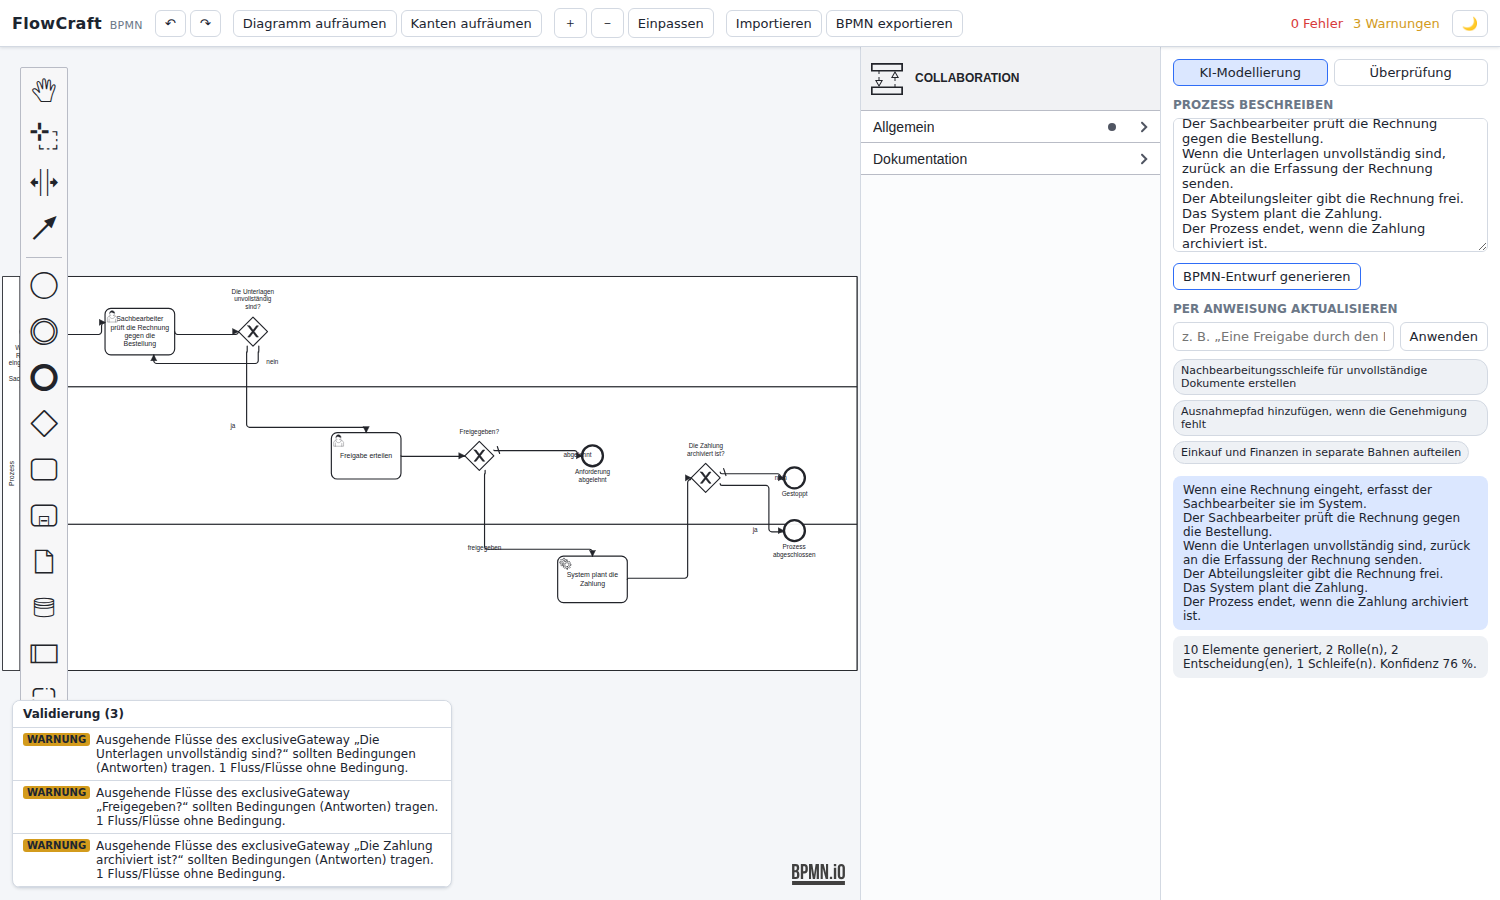
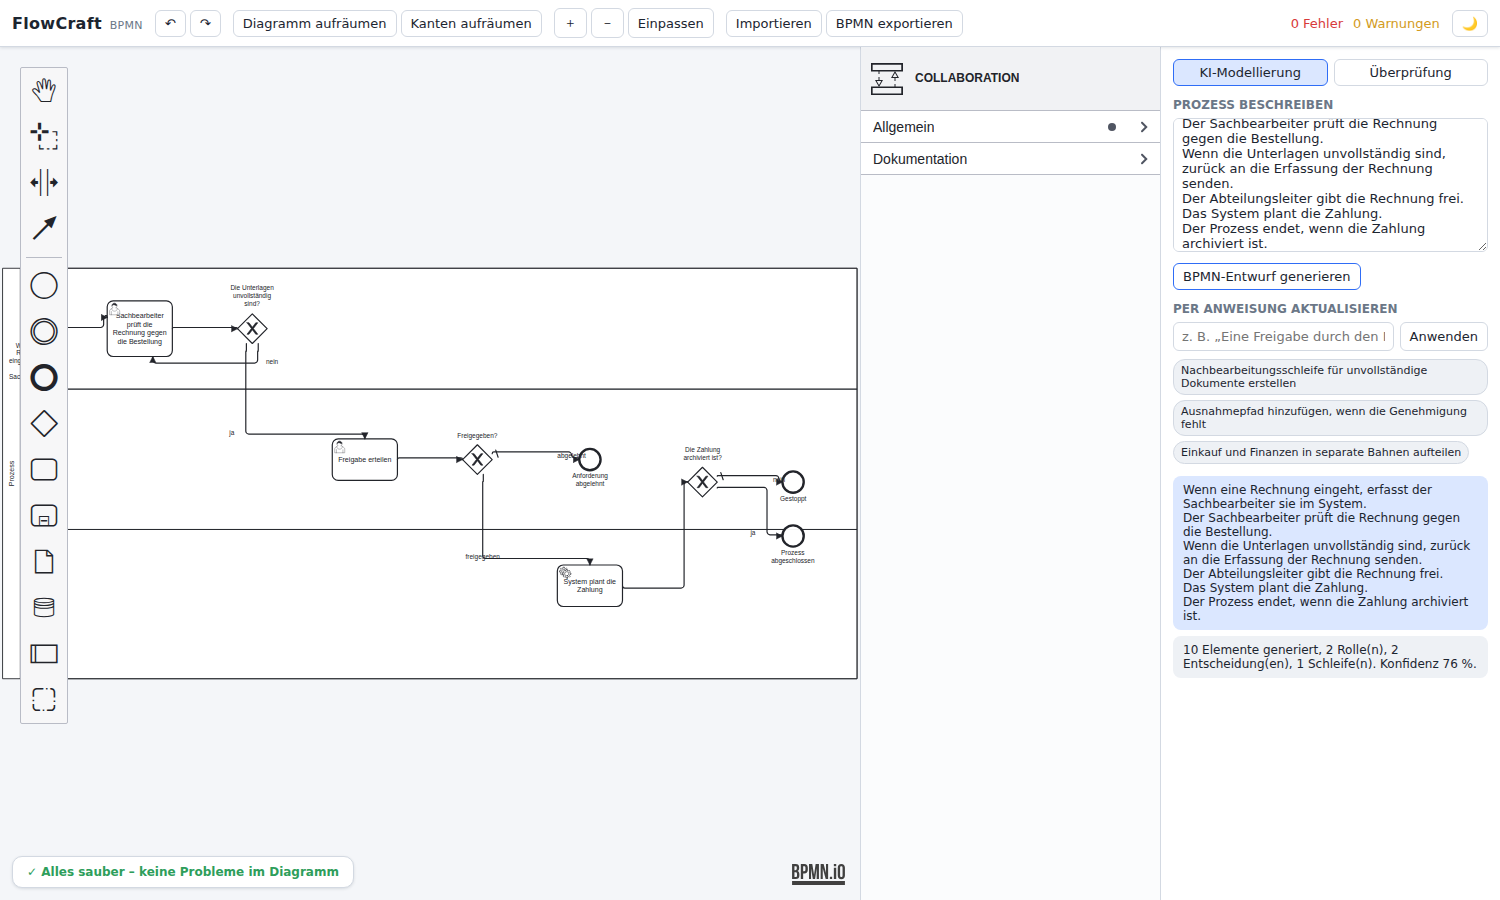
Clear, actionable validation + auto-sized task boxes (AI-modeling polish)
Validation
- Every issue now has a plain-language message + a concrete "→ fix" hint;
  panel redesigned (collapsible, severity badges, counts, hint line).
- Smarter gateway rule: a path counts as answered if it has a LABEL, a
  condition or is the default — labelled "ja"/"nein" branches no longer raise
  confusing "missing condition" warnings. AI-generated diagrams now validate
  clean instead of showing noise the user can't interpret.

Optics
- fitLabelSizes(): task-like activities auto-grow to fit their (wrapped) label
  instead of clipping it — fixes squished labels on AI-generated diagrams.
  Run in autoLayout before placement so spacing accounts for the real sizes.

42 tests pass; verified in-browser (0 warnings, labels fit).

Claude-Session: https://claude.ai/code/session_014hKtQHBPVBhXtcd1pk8v9w

Changed region(s): [[0.0, 0.7778, 0.3067, 0.9956], [0.0613, 0.4667, 0.552, 0.6844], [0.0613, 0.28, 0.552, 0.4356]]

diff --git a/src/core/validation/validator.ts b/src/core/validation/validator.ts
@@ -5,7 +5,10 @@ export type Severity = "error" | "warning" | "info";
 export interface ValidationIssue {
   rule: string;
   severity: Severity;
+  /** plain-language description of what is wrong. */
   message: string;
+  /** concrete, actionable fix in plain language. */
+  hint?: string;
   elementId?: string;
 }
 
@@ -59,14 +62,15 @@ function validateFlowScopes(
     const s = model.nodes[e.source];
     const t = model.nodes[e.target];
     if (!s || !t) {
-      add({ rule: "flow.endpoints", severity: "error", message: `Sequenzfluss ${e.id} hat einen fehlenden Endpunkt.`, elementId: e.id });
+      add({ rule: "flow.endpoints", severity: "error", message: `Ein Sequenzfluss hängt in der Luft (Start- oder Endpunkt fehlt).`, hint: "Verbinde den Pfeil mit zwei vorhandenen Elementen oder lösche ihn.", elementId: e.id });
       continue;
     }
     if (processOf[s.id] !== processOf[t.id]) {
       add({
         rule: "flow.same-pool",
         severity: "error",
-        message: `Sequenzfluss „${e.name ?? e.id}“ verbindet Elemente in verschiedenen Pools. Verwenden Sie zwischen Pools einen Nachrichtenfluss.`,
+        message: `Der Pfeil „${e.name ?? "(ohne Name)"}“ verbindet zwei verschiedene Pools mit einem Sequenzfluss.`,
+        hint: "Innerhalb eines Pools: Sequenzfluss. Zwischen zwei Pools: Nachrichtenfluss (gestrichelt) verwenden.",
         elementId: e.id,
       });
     }
@@ -86,7 +90,8 @@ function validateMessageFlows(
       add({
         rule: "messageflow.cross-pool",
         severity: "error",
-        message: `Nachrichtenfluss „${e.name ?? e.id}“ muss zwei verschiedene Pools verbinden.`,
+        message: `Der Nachrichtenfluss „${e.name ?? "(ohne Name)"}“ bleibt innerhalb eines Pools.`,
+        hint: "Nachrichtenflüsse modellieren Kommunikation ZWISCHEN Pools. Innerhalb eines Pools stattdessen einen Sequenzfluss verwenden.",
         elementId: e.id,
       });
     }
@@ -97,7 +102,7 @@ function validateLanes(model: BpmnModel, add: (i: ValidationIssue) => void): voi
   for (const lane of Object.values(model.lanes)) {
     const proc = model.processes[lane.parent];
     if (!proc) {
-      add({ rule: "lane.in-pool", severity: "error", message: `Bahn „${lane.name ?? lane.id}“ ist in keinem Prozess/Pool enthalten.`, elementId: lane.id });
+      add({ rule: "lane.in-pool", severity: "error", message: `Die Bahn „${lane.name ?? lane.id}“ liegt in keinem Pool.`, hint: "Bahnen (Rollen) gehören immer in einen Pool. Lege einen Pool an und ordne die Bahn dort ein.", elementId: lane.id });
     }
   }
 }
@@ -108,18 +113,18 @@ function validateEvents(model: BpmnModel, add: (i: ValidationIssue) => void): vo
     const out = adj.outgoing[n.id] ?? [];
     const inc = adj.incoming[n.id] ?? [];
     if (n.type === "startEvent") {
-      if (inc.length) add({ rule: "event.start-no-incoming", severity: "error", message: `Startereignis „${label(n)}“ darf keine eingehenden Sequenzflüsse haben.`, elementId: n.id });
-      if (!out.length) add({ rule: "event.start-outgoing", severity: "warning", message: `Startereignis „${label(n)}“ hat keinen ausgehenden Fluss.`, elementId: n.id });
+      if (inc.length) add({ rule: "event.start-no-incoming", severity: "error", message: `Auf das Startereignis „${label(n)}“ zeigt ein Pfeil.`, hint: "Ein Start beginnt den Prozess – es darf nichts hineinfließen. Eingehenden Pfeil entfernen.", elementId: n.id });
+      if (!out.length) add({ rule: "event.start-outgoing", severity: "warning", message: `Vom Start „${label(n)}“ geht kein Pfeil aus.`, hint: "Verbinde den Start mit dem ersten Schritt des Prozesses.", elementId: n.id });
     }
     if (n.type === "endEvent") {
-      if (out.length) add({ rule: "event.end-no-outgoing", severity: "error", message: `Endereignis „${label(n)}“ darf keine ausgehenden Sequenzflüsse haben.`, elementId: n.id });
-      if (!inc.length) add({ rule: "event.end-incoming", severity: "warning", message: `Endereignis „${label(n)}“ hat keinen eingehenden Fluss.`, elementId: n.id });
+      if (out.length) add({ rule: "event.end-no-outgoing", severity: "error", message: `Vom Endereignis „${label(n)}“ geht ein Pfeil aus.`, hint: "Ein Ende schließt den Prozess ab – von dort darf nichts mehr weitergehen. Ausgehenden Pfeil entfernen.", elementId: n.id });
+      if (!inc.length) add({ rule: "event.end-incoming", severity: "warning", message: `Auf das Ende „${label(n)}“ zeigt kein Pfeil.`, hint: "Verbinde den letzten Schritt mit diesem Endereignis.", elementId: n.id });
     }
     if (n.type === "boundaryEvent") {
       if (!n.attachedToRef || !model.nodes[n.attachedToRef]) {
-        add({ rule: "event.boundary-host", severity: "error", message: `Rand-Ereignis „${label(n)}“ muss an eine Aktivität angeheftet sein.`, elementId: n.id });
+        add({ rule: "event.boundary-host", severity: "error", message: `Das Rand-Ereignis „${label(n)}“ klebt an keiner Aufgabe.`, hint: "Ziehe das Ereignis auf den Rand einer Aktivität (z. B. für einen Timer oder eine Fehlerbehandlung).", elementId: n.id });
       } else if (!isActivity(model.nodes[n.attachedToRef].type)) {
-        add({ rule: "event.boundary-host", severity: "error", message: `Rand-Ereignis „${label(n)}“ muss an eine Aktivität angeheftet sein, nicht an ${model.nodes[n.attachedToRef].type}.`, elementId: n.id });
+        add({ rule: "event.boundary-host", severity: "error", message: `Das Rand-Ereignis „${label(n)}“ hängt an einem Element, das keine Aufgabe ist.`, hint: "Rand-Ereignisse gehören an Aktivitäten (Aufgaben/Teilprozesse), nicht an Gateways oder Ereignisse.", elementId: n.id });
       }
     }
   }
@@ -132,28 +137,61 @@ function validateGateways(model: BpmnModel, add: (i: ValidationIssue) => void): 
     const out = adj.outgoing[n.id] ?? [];
     const inc = adj.incoming[n.id] ?? [];
     if (out.length <= 1 && inc.length <= 1) {
-      add({ rule: "gateway.degenerate", severity: "warning", message: `Gateway „${label(n)}“ verzweigt und führt nichts zusammen (1 ein/1 aus). Entfernen erwägen.`, elementId: n.id });
+      add({
+        rule: "gateway.degenerate",
+        severity: "warning",
+        message: `Das Gateway „${label(n)}“ teilt nichts auf und führt nichts zusammen.`,
+        hint: "Ein Gateway mit nur einem Eingang und einem Ausgang ist überflüssig – entfernen und die beiden Flüsse direkt verbinden.",
+        elementId: n.id,
+      });
     }
     if ((n.type === "exclusiveGateway" || n.type === "inclusiveGateway") && out.length > 1) {
-      const withoutCondition = out.filter((e) => !e.condition && !e.isDefault);
+      // A path counts as "answered" if it has a label OR a condition OR is the
+      // default — an unlabelled, unconditioned path is the real problem.
+      const unlabelled = out.filter((e) => !e.condition && !e.isDefault && !(e.name && e.name.trim()));
       const defaults = out.filter((e) => e.isDefault);
-      if (withoutCondition.length) {
-        add({ rule: "gateway.conditions", severity: "warning", message: `Ausgehende Flüsse des ${n.type} „${label(n)}“ sollten Bedingungen (Antworten) tragen. ${withoutCondition.length} Fluss/Flüsse ohne Bedingung.`, elementId: n.id });
+      if (unlabelled.length) {
+        add({
+          rule: "gateway.conditions",
+          severity: "warning",
+          message: `Beim Gateway „${label(n)}“ ${unlabelled.length === 1 ? "ist ein Ausgang" : `sind ${unlabelled.length} Ausgänge`} nicht beschriftet.`,
+          hint: "Beschrifte jeden Ausgang mit seiner Antwort (z. B. „ja“ / „nein“), damit klar ist, wann welcher Weg genommen wird.",
+          elementId: n.id,
+        });
       }
       if (defaults.length > 1) {
-        add({ rule: "gateway.default", severity: "error", message: `Gateway „${label(n)}“ hat mehr als einen Standardfluss.`, elementId: n.id });
+        add({
+          rule: "gateway.default",
+          severity: "error",
+          message: `Das Gateway „${label(n)}“ hat mehrere Standard-Ausgänge.`,
+          hint: "Es darf nur einen Standardfluss geben. Entferne die Standard-Markierung bei den übrigen Ausgängen.",
+          elementId: n.id,
+        });
       }
     }
     if (n.type === "parallelGateway") {
       for (const e of out) {
-        if (e.condition) add({ rule: "gateway.parallel-condition", severity: "error", message: `Paralleles Gateway „${label(n)}“ darf keine bedingten ausgehenden Flüsse haben.`, elementId: e.id });
+        if (e.condition)
+          add({
+            rule: "gateway.parallel-condition",
+            severity: "error",
+            message: `Ein paralleles Gateway („${label(n)}“) hat einen Ausgang mit Bedingung.`,
+            hint: "Parallele Gateways führen IMMER alle Wege gleichzeitig aus – Bedingungen sind hier nicht erlaubt. Nutze ein exklusives Gateway, wenn du entscheiden willst.",
+            elementId: e.id,
+          });
       }
     }
     if (n.type === "eventBasedGateway") {
       for (const e of out) {
         const tgt = model.nodes[e.target];
         if (tgt && tgt.type !== "intermediateCatchEvent" && !tgt.type.endsWith("Task")) {
-          add({ rule: "gateway.event-based-targets", severity: "warning", message: `Auf ein ereignisbasiertes Gateway „${label(n)}“ sollten fangende Ereignisse oder Empfangsaufgaben folgen.`, elementId: n.id });
+          add({
+            rule: "gateway.event-based-targets",
+            severity: "warning",
+            message: `Auf das ereignisbasierte Gateway „${label(n)}“ folgt etwas anderes als ein Ereignis.`,
+            hint: "Nach einem ereignisbasierten Gateway müssen fangende Ereignisse oder Empfangsaufgaben kommen (das Gateway wartet auf das erste eintreffende Ereignis).",
+            elementId: n.id,
+          });
         }
       }
     }
@@ -167,7 +205,7 @@ function validateConnectivity(model: BpmnModel, add: (i: ValidationIssue) => voi
     const out = adj.outgoing[n.id] ?? [];
     const inc = adj.incoming[n.id] ?? [];
     if (out.length === 0 && inc.length === 0) {
-      add({ rule: "connectivity.isolated", severity: "warning", message: `Element „${label(n)}“ ist nicht mit dem Ablauf verbunden.`, elementId: n.id });
+      add({ rule: "connectivity.isolated", severity: "warning", message: `„${label(n)}“ ist mit nichts verbunden.`, hint: "Verbinde das Element mit dem Ablauf oder entferne es.", elementId: n.id });
     }
   }
 }
@@ -176,13 +214,13 @@ function validateReadability(model: BpmnModel, add: (i: ValidationIssue) => void
   for (const n of Object.values(model.nodes)) {
     if (isActivity(n.type)) {
       if (!n.name || !n.name.trim()) {
-        add({ rule: "readability.task-name", severity: "warning", message: `Aktivität ${n.id} hat keinen Namen. Verwenden Sie Objekt + Verb (z. B. „Rechnung freigeben“).`, elementId: n.id });
+        add({ rule: "readability.task-name", severity: "warning", message: `Eine Aufgabe hat keinen Namen.`, hint: "Benenne sie als Tätigkeit (Verb + Objekt), z. B. „Rechnung freigeben“.", elementId: n.id });
       } else if (!looksLikeObjectVerb(n.name)) {
-        add({ rule: "readability.object-verb", severity: "info", message: `Aufgabe „${n.name}“ folgt evtl. nicht der Objekt-+-Verb-Benennung.`, elementId: n.id });
+        add({ rule: "readability.object-verb", severity: "info", message: `„${n.name}“ liest sich evtl. nicht wie eine Tätigkeit.`, hint: "Tipp: Verb + Objekt verwenden, z. B. „Antrag prüfen“ statt „Antrag“.", elementId: n.id });
       }
     }
     if (n.type === "exclusiveGateway" && n.name && !n.name.trim().endsWith("?")) {
-      add({ rule: "readability.gateway-question", severity: "info", message: `Exklusives Gateway „${n.name}“ sollte üblicherweise als Frage formuliert werden.`, elementId: n.id });
+      add({ rule: "readability.gateway-question", severity: "info", message: `Das Gateway „${n.name}“ ist nicht als Frage formuliert.`, hint: "Entscheidungen liest man am besten als Frage, z. B. „Betrag > 1000 €?“.", elementId: n.id });
     }
   }
 }

diff --git a/src/ui/components/ValidationPanel.tsx b/src/ui/components/ValidationPanel.tsx
@@ -1,40 +1,59 @@
+import { useState } from "react";
 import { useEditor } from "@state/store";
+import { summarize } from "@core/index";
+
+const SEV_LABEL: Record<string, string> = { error: "Fehler", warning: "Hinweis", info: "Tipp" };
+const SEV_ICON: Record<string, string> = { error: "✕", warning: "!", info: "i" };
 
 export function ValidationPanel() {
   const issues = useEditor((s) => s.issues);
   const store = useEditor;
+  const [open, setOpen] = useState(true);
+  const counts = summarize(issues);
 
   const locate = (elementId?: string) => {
     if (!elementId) return;
     const modeler = store.getState().modeler;
     if (!modeler) return;
-    const registry = modeler.get<any>("elementRegistry");
-    const selection = modeler.get<any>("selection");
-    const canvas = modeler.get<any>("canvas");
-    const el = registry.get(elementId);
-    if (el) {
-      selection.select(el);
-      try {
-        canvas.scrollToElement(el);
-      } catch {
-        /* older bpmn-js */
-      }
+    const el = modeler.get<any>("elementRegistry").get(elementId);
+    if (!el) return;
+    modeler.get<any>("selection").select(el);
+    try {
+      modeler.get<any>("canvas").scrollToElement(el);
+    } catch {
+      /* older bpmn-js */
     }
   };
 
-  if (!issues.length) return <div className="validation ok">✓ Keine Validierungsprobleme</div>;
-  const SEV: Record<string, string> = { error: "Fehler", warning: "Warnung", info: "Info" };
+  if (!issues.length) {
+    return <div className="validation ok">✓ Alles sauber – keine Probleme im Diagramm</div>;
+  }
+
   return (
-    <div className="validation">
-      <div className="validation-head">Validierung ({issues.length})</div>
-      <ul>
-        {issues.map((it, i) => (
-          <li key={i} className={it.severity} onClick={() => locate(it.elementId)} title={it.rule}>
-            <span className="sev">{SEV[it.severity] ?? it.severity}</span>
-            {it.message}
-          </li>
-        ))}
-      </ul>
+    <div className={`validation ${open ? "open" : "collapsed"}`}>
+      <div className="validation-head" onClick={() => setOpen((o) => !o)}>
+        <span>{open ? "▾" : "▸"} Diagramm-Prüfung</span>
+        <span className="vh-counts">
+          {counts.errors > 0 && <span className="b err">{counts.errors} Fehler</span>}
+          {counts.warnings > 0 && <span className="b warn">{counts.warnings} Hinweise</span>}
+          {counts.infos > 0 && <span className="b info">{counts.infos} Tipps</span>}
+        </span>
+      </div>
+      {open && (
+        <ul>
+          {issues.map((it, i) => (
+            <li key={i} className={it.severity} onClick={() => locate(it.elementId)}>
+              <span className={`badge ${it.severity}`}>{SEV_ICON[it.severity]}</span>
+              <div className="vi-body">
+                <div className="vi-msg">
+                  <span className="vi-sev">{SEV_LABEL[it.severity] ?? it.severity}:</span> {it.message}
+                </div>
+                {it.hint && <div className="vi-hint">→ {it.hint}</div>}
+              </div>
+            </li>
+          ))}
+        </ul>
+      )}
     </div>
   );
 }

diff --git a/src/ui/styles/app.css b/src/ui/styles/app.css
@@ -83,16 +83,25 @@ textarea { resize: vertical; }
 .bjs-properties:empty { display: none; }
 
 /* Validation overlay */
-.validation { position: absolute; left: 12px; bottom: 12px; max-height: 36%; width: 440px; max-width: 70%; overflow: auto; background: var(--surface); border: 1px solid var(--border); border-radius: 8px; box-shadow: var(--shadow); font-size: 12px; z-index: 4; }
-.validation.ok { padding: 6px 12px; color: #2e9e5b; width: auto; }
-.validation-head { padding: 6px 10px; font-weight: 600; border-bottom: 1px solid var(--border); position: sticky; top: 0; background: var(--surface); }
+.validation { position: absolute; left: 12px; bottom: 12px; max-height: 42%; width: 460px; max-width: 70%; overflow: auto; background: var(--surface); border: 1px solid var(--border); border-radius: 10px; box-shadow: var(--shadow); font-size: 12px; z-index: 4; }
+.validation.ok { padding: 8px 14px; color: #2e9e5b; width: auto; font-weight: 600; }
+.validation-head { padding: 8px 12px; font-weight: 700; border-bottom: 1px solid var(--border); position: sticky; top: 0; background: var(--surface); display: flex; justify-content: space-between; align-items: center; cursor: pointer; gap: 10px; }
+.vh-counts { display: flex; gap: 6px; font-size: 11px; font-weight: 600; }
+.vh-counts .b { padding: 1px 7px; border-radius: 10px; }
+.vh-counts .b.err { background: var(--error); color: #fff; }
+.vh-counts .b.warn { background: var(--warn); color: #1c2530; }
+.vh-counts .b.info { background: var(--surface-2); color: var(--muted); }
 .validation ul { list-style: none; margin: 0; padding: 0; }
-.validation li { padding: 5px 10px; border-bottom: 1px solid var(--border); cursor: pointer; display: flex; gap: 6px; }
+.validation li { padding: 8px 12px; border-bottom: 1px solid var(--border); cursor: pointer; display: flex; gap: 9px; align-items: flex-start; }
 .validation li:hover { background: var(--surface-2); }
-.validation li .sev { font-size: 10px; text-transform: uppercase; font-weight: 700; padding: 1px 4px; border-radius: 3px; height: fit-content; }
-.validation li.error .sev { background: var(--error); color: #fff; }
-.validation li.warning .sev { background: var(--warn); color: #1c2530; }
-.validation li.info .sev { background: var(--surface-2); color: var(--muted); }
+.validation li .badge { flex: none; width: 18px; height: 18px; border-radius: 50%; display: flex; align-items: center; justify-content: center; font-size: 11px; font-weight: 700; color: #fff; margin-top: 1px; }
+.validation li .badge.error { background: var(--error); }
+.validation li .badge.warning { background: var(--warn); color: #1c2530; }
+.validation li .badge.info { background: #6b7787; }
+.vi-body { min-width: 0; }
+.vi-msg { line-height: 1.35; }
+.vi-sev { font-weight: 700; }
+.vi-hint { margin-top: 3px; color: var(--muted); line-height: 1.3; }
 
 /* AI side panel */
 .side { width: 340px; border-left: 1px solid var(--border); background: var(--surface); display: flex; flex-direction: column; overflow: hidden; }

diff --git a/src/core/layout/layered.ts b/src/core/layout/layered.ts
@@ -234,6 +234,28 @@ function assignCoordinates(
   }
 }
 
+/**
+ * Size task-like activities so their label fits inside the box (bpmn-js wraps
+ * text but clips overflow). Prevents the squished/cut-off labels that make
+ * AI-generated diagrams look unfinished. Events/gateways keep fixed sizes
+ * (their labels render externally).
+ */
+export function fitLabelSizes(model: BpmnModel, scope: string): void {
+  for (const n of Object.values(model.nodes)) {
+    if (n.parent !== scope) continue;
+    const taskLike = n.type === "task" || n.type.endsWith("Task") || n.type === "callActivity";
+    if (!taskLike || !n.name) continue;
+    const charsPerLine = 16; // ~width 100 at 12px
+    const longestWord = Math.max(...n.name.split(/\s+/).map((w) => w.length), 1);
+    const width = Math.max(110, Math.min(170, longestWord * 7.2));
+    const cpl = Math.max(charsPerLine, Math.floor((width - 16) / 6.6));
+    const lines = Math.max(1, Math.ceil(n.name.length / cpl));
+    const height = Math.max(70, Math.min(150, lines * 16 + 30));
+    n.bounds.width = Math.round(width);
+    n.bounds.height = Math.round(height);
+  }
+}
+
 function median(xs: number[]): number {
   if (!xs.length) return 0;
   const s = [...xs].sort((a, b) => a - b);

diff --git a/src/core/layout/index.ts b/src/core/layout/index.ts
@@ -1,6 +1,6 @@
 import { BpmnModel } from "../model";
 import { routeMessageFlows, routeScope, RouteOptions } from "../routing/router";
-import { LayoutOptions, LayoutResult, contentBounds, layoutScope } from "./layered";
+import { LayoutOptions, LayoutResult, contentBounds, fitLabelSizes, layoutScope } from "./layered";
 import { placeLabels } from "./labels";
 
 export * from "./layered";
@@ -21,6 +21,7 @@ export function autoLayout(
   scope = model.rootProcessId,
   opts: AutoLayoutOptions = {},
 ): LayoutResult {
+  fitLabelSizes(model, scope);
   const result = layoutScope(model, scope, opts.layout);
   routeScope(model, scope, opts.routing);
   routeMessageFlows(model);
